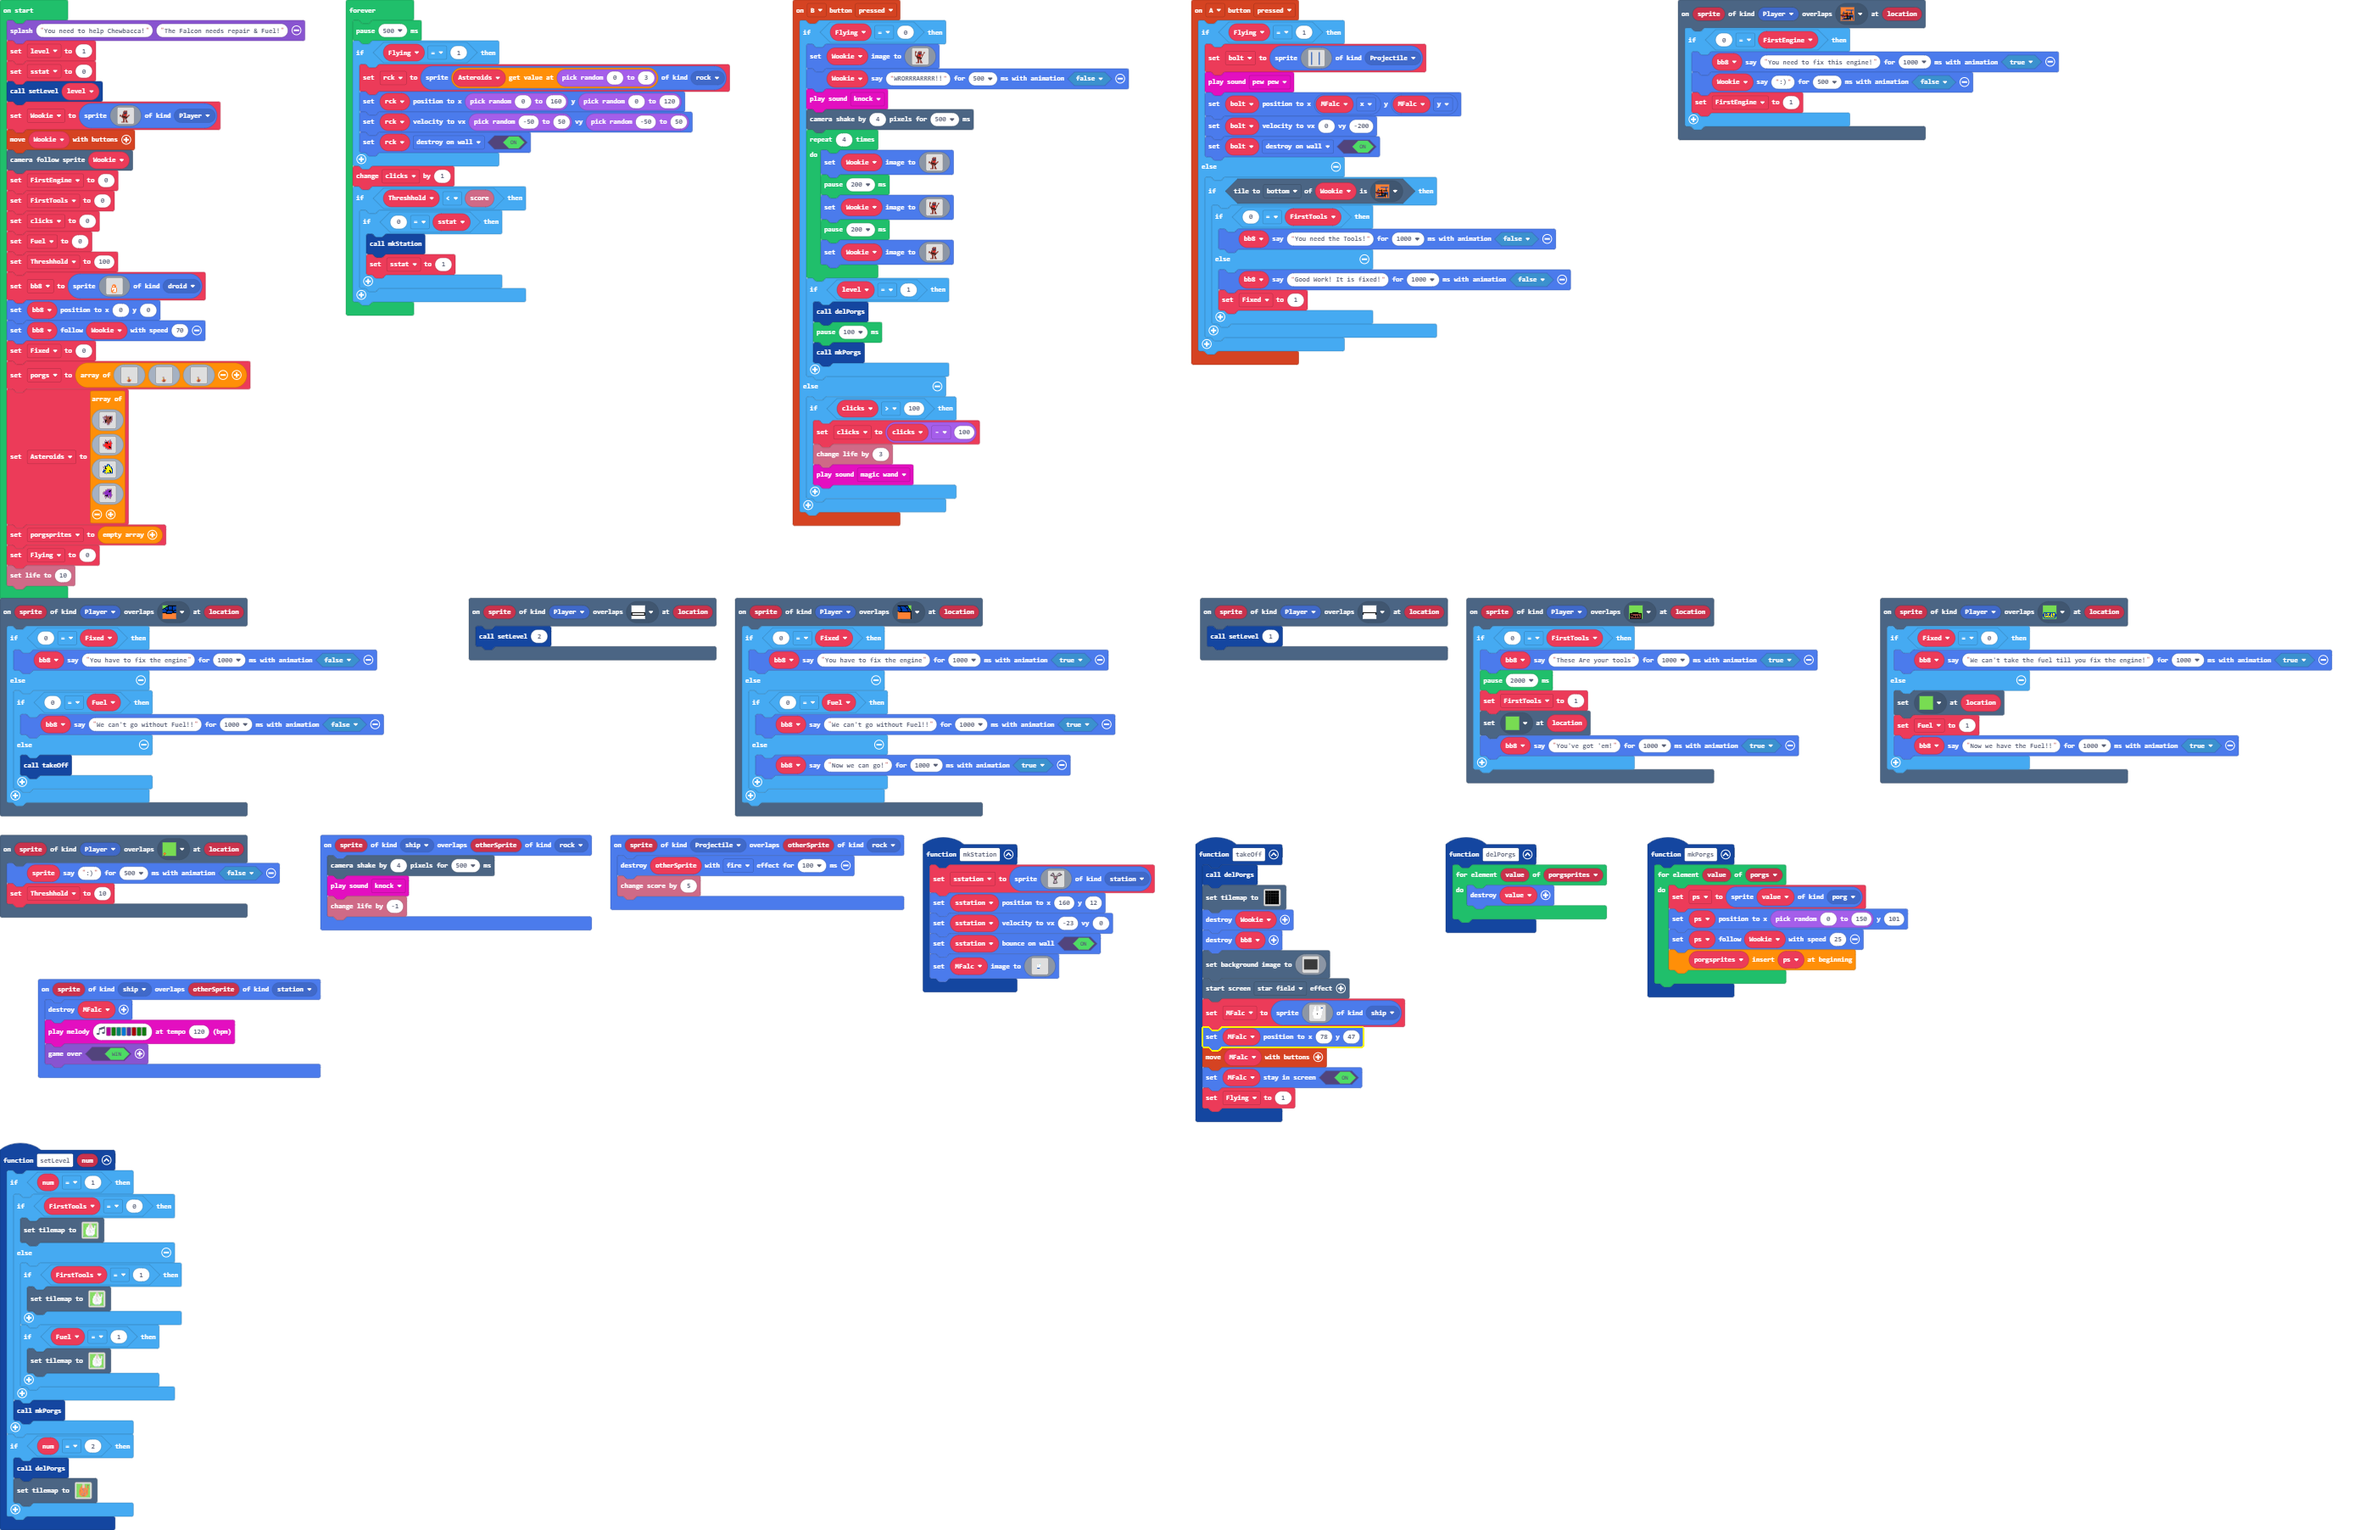
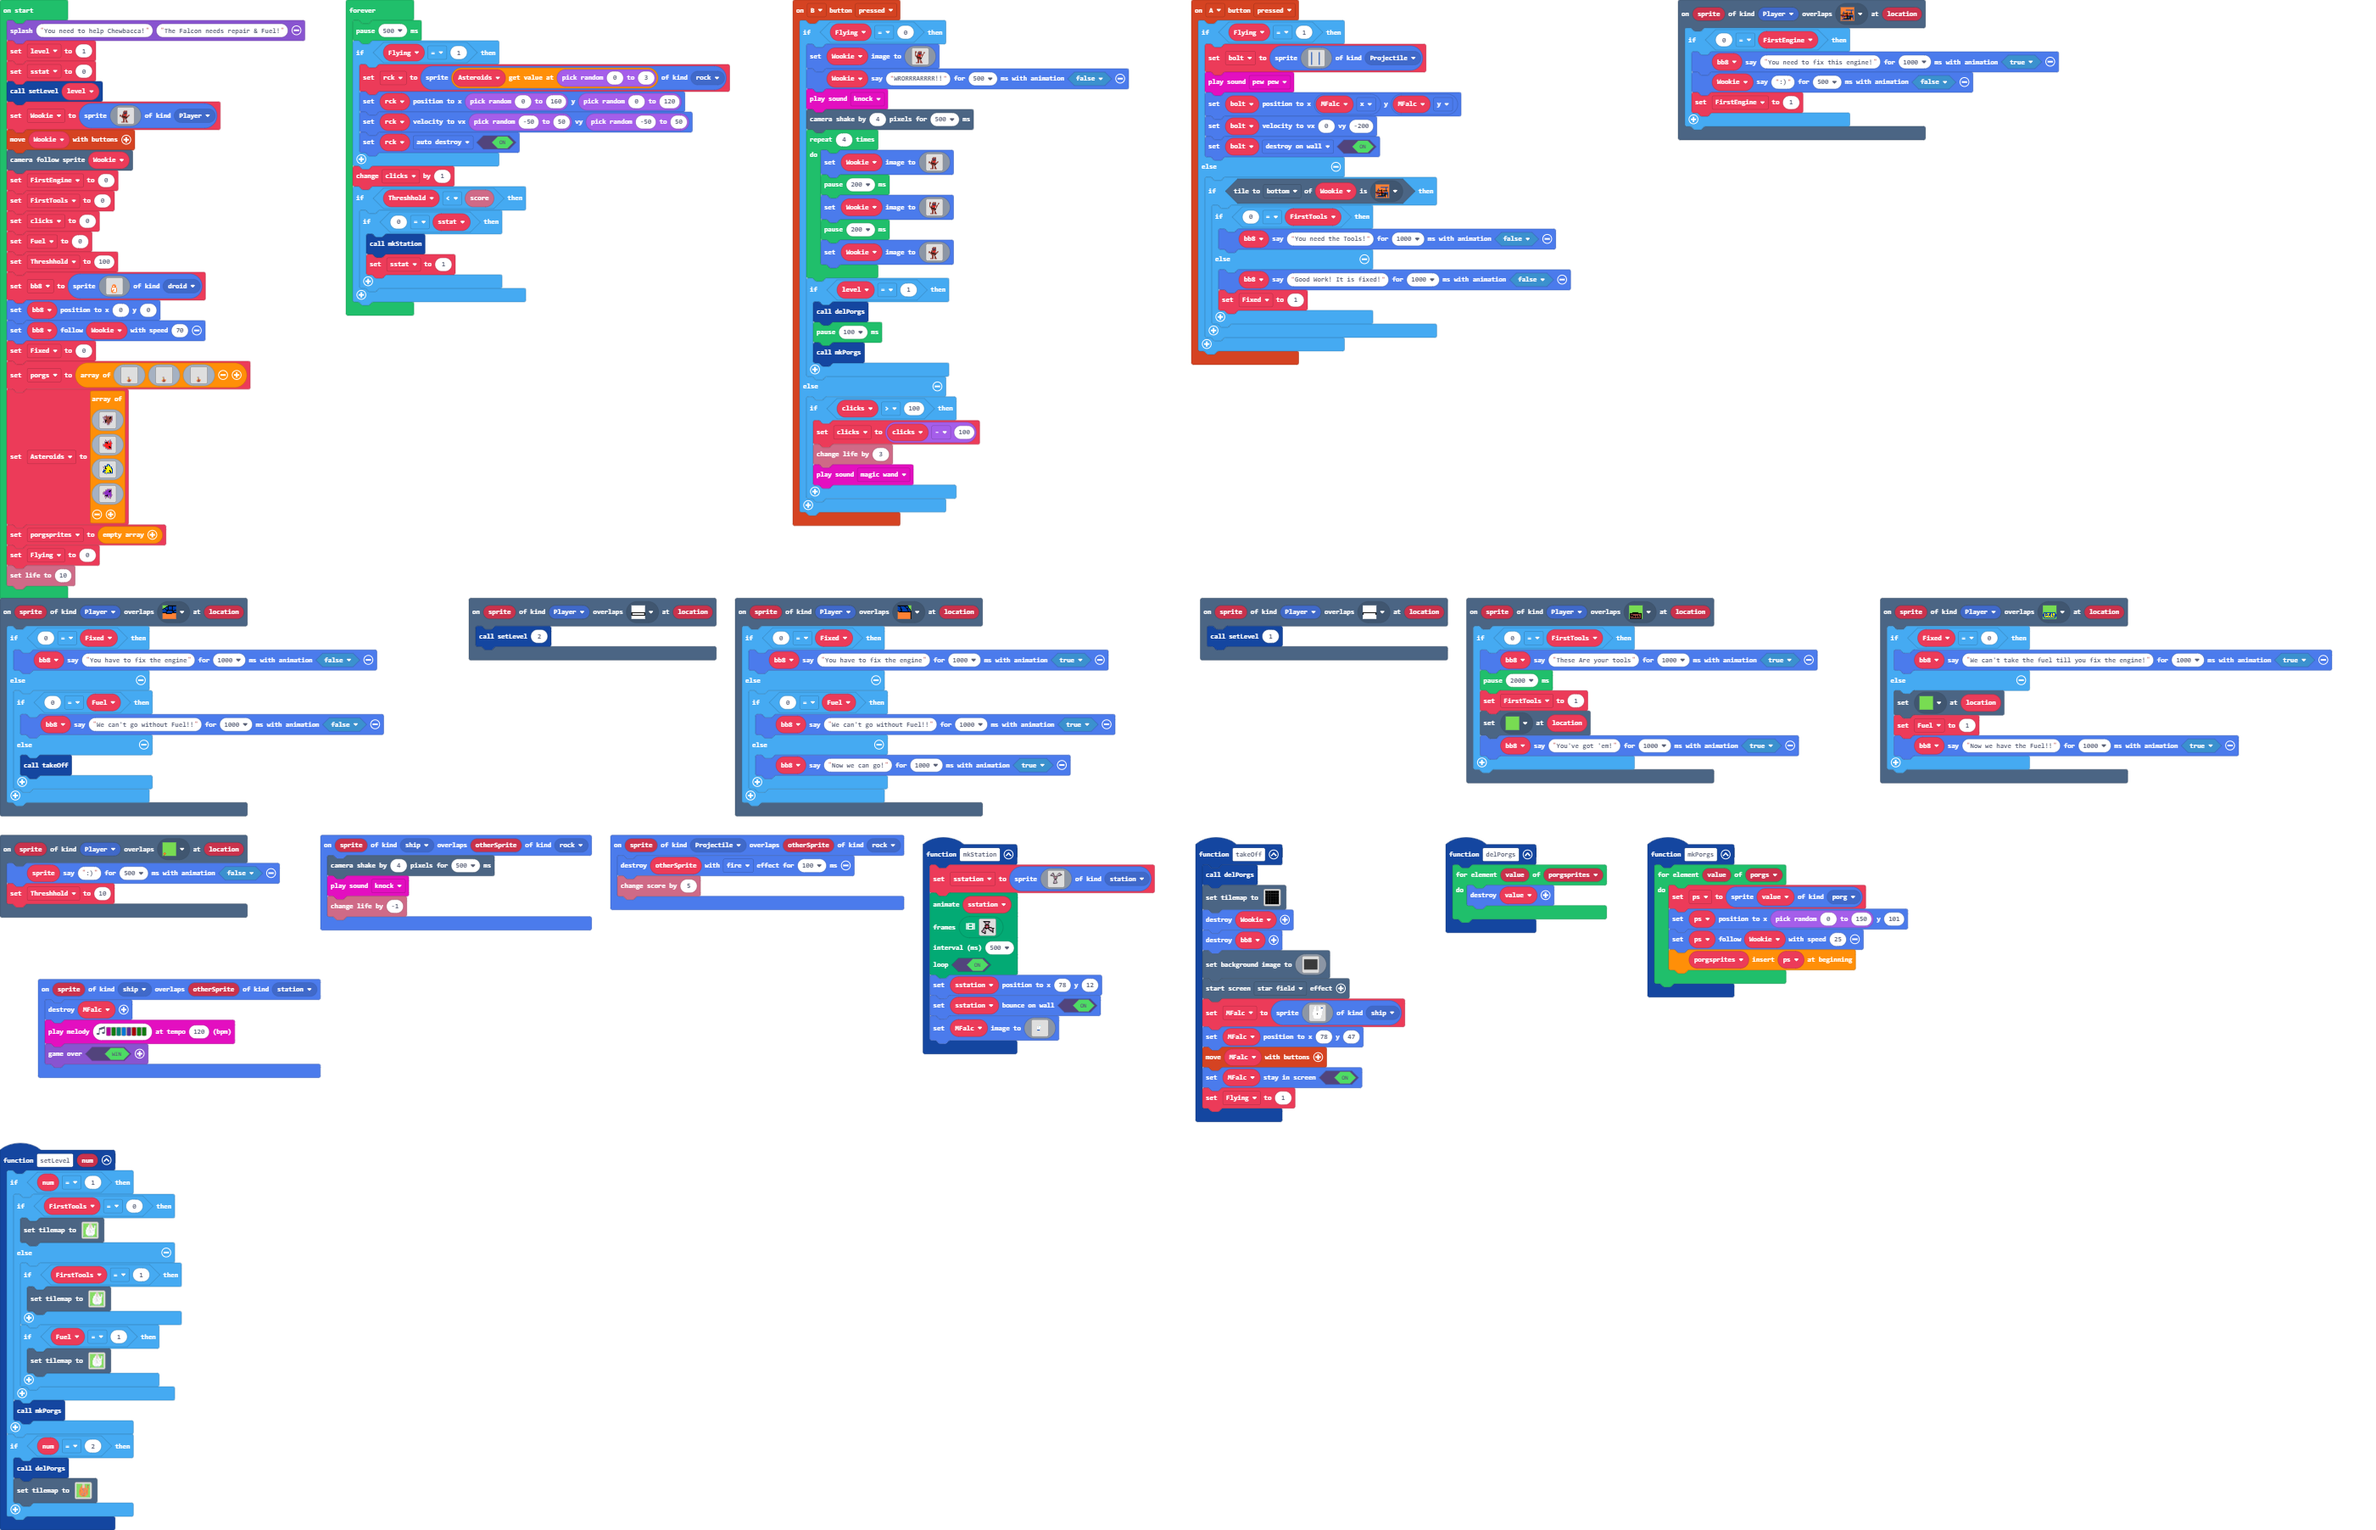
Update main.blocks, main.ts, images.g.jres, images.g.ts

Changed region(s): [[0.3726, 0.5588, 0.4657, 0.714]]

diff --git a/images.g.ts b/images.g.ts
@@ -245,13 +245,150 @@ namespace myImages {
 . . . . . . . . . . . . . . . . 
 . . . . . . . . . . . . . . . . 
 `;
+            case "image13":
+            case "SpaceStation0":return img`
+..............................
+..............................
+..............................
+..............................
+.........ffff.................
+.........fbbbffff.............
+.........fbb1bbbbf............
+.........fbbb1bbf.............
+..........fbb1bbf.............
+..........fbb1bf..............
+..........fbb1bf..............
+...........fbbbf..............
+...........fbbf...............
+............fbf...............
+...........fffff..............
+..........f2bbb2f.............
+..........fbbbbbf.............
+..........fbb2bbf.............
+..........fbbbbbf.............
+..........f2bbb2f.............
+........ff1fffffbff...........
+....ffffb1bf...f1bbfff........
+..ffbbbb1bf.....f11bbbfff.....
+...fbbb1bbf......fb11bbbbfff..
+....fb1bbf........fbb11bbbf...
+.....fbbbf.........fbbb1bf....
+......fbbf..........fbbbf.....
+.......ff............fbf......
+........f.............f.......
+..............................
+`;
+            case "image14":
+            case "SpaceStation1":return img`
+..............................
+..............................
+..............................
+..............................
+..........f...................
+........fff...................
+......ffbbf...................
+....ffbbbbf...................
+...fbbb1bbf...................
+..fbbbbb1bf...................
+...fbbbb1bbf...........f......
+....fbbbb1bf.........fff......
+.....ffbb1bf........fbbf......
+.......fbbbf......ffbbbf......
+........fbbfffff.fbbbb1bf.....
+.........ff2bbb2fbbb11bbf.....
+..........fbbbbbfbb1bbbbf.....
+..........fbb2bbffffbbbbf.....
+..........fbbbbbf...ffff.f....
+..........f2bbb2f.......ff....
+........ff1fffffb.............
+......ffbbbf...f..............
+....ffbbb1bf..................
+...fbbb11bbf..................
+....fb1bbbf...................
+.....fbbbbf...................
+......fbbf....................
+......fbf.....................
+.......ff.....................
+.......f......................
+`;
         }
         return null;
     })
 
     helpers._registerFactory("animation", function(name: string) {
         switch(helpers.stringTrim(name)) {
-
+            case "myAnim":
+            case "anim1":return [img`
+. . . . . . . . . . . . . . . . 
+. . . . . . . . . . . . . . . . 
+. . . . . . . . . . . . . . . . 
+. . . . . . . . . . . . . . . . 
+. . . . . . . . . . . . . . . . 
+. . . . . . . . . . . . . . . . 
+. . . . . . . . . . . . . . . . 
+. . . . . . . . . . . . . . . . 
+. . . . . . . . . . . . . . . . 
+. . . . . . . . . . . . . . . . 
+. . . . . . . . . . . . . . . . 
+. . . . . . . . . . . . . . . . 
+. . . . . . . . . . . . . . . . 
+. . . . . . . . . . . . . . . . 
+. . . . . . . . . . . . . . . . 
+. . . . . . . . . . . . . . . . 
+`];
+            case "AStation":
+            case "anim2":return [img`
+. . . . . . . . . . . . . . . . 
+. . . f f f f f f f f . . . . . 
+. . . . f b b d b b f . . . . . 
+. . . . . f b d b f . . . . . . 
+. . . . . . f d f . . . . . . . 
+. . . . . f f f f f . . . . . . 
+. . . . . f 2 b 2 f . . . . . . 
+. . . . . f b b b f . . . . . . 
+. . . . f f 2 b 2 f f f f . . . 
+. . . f b f f f f f d d b f f f 
+. . . f b d f . . f b b d d f . 
+. . f b b d . . . . f b b b f . 
+. f b b d f . . . . . f f b f . 
+. f b d b f . . . . . . . f f . 
+. . f f b f . . . . . . . . f . 
+. . . . f f . . . . . . . . . . 
+`, img`
+. . . . f f . . . . . . . . . . 
+. . f f b f . . . . . . . . f . 
+. f b d b f . . . . . . . f f . 
+. f b b d f . . . . . f f b f . 
+. . f b b d . . . . f b b b f . 
+. . . f b d f . . f b b d d f . 
+. . . f b f f f f f d d b f f f 
+. . . . f f 2 b 2 f f f f . . . 
+. . . . . f b b b f . . . . . . 
+. . . . . f 2 b 2 f . . . . . . 
+. . . . . f f f f f . . . . . . 
+. . . . . . f d f . . . . . . . 
+. . . . . f b d b f . . . . . . 
+. . . . f b b d b b f . . . . . 
+. . . f f f f f f f f . . . . . 
+. . . . . . . . . . . . . . . . 
+`, img`
+. . . . . f f . . . . . . . . . 
+. . . . f b f . . . . . . . . . 
+. . . f b b f . . . . . . . . . 
+. . f b 1 b f . . . . . . . f . 
+. f f b b 1 f . . . . . f f f . 
+. . . f f 1 f . . . . f b b f . 
+. . . . . f f f f f f b b b f . 
+. . . . . f 2 b 2 f b b 1 1 f . 
+. . . . . f b b b f 1 1 b b f . 
+f f f . . f 2 b 2 f f b b b f . 
+f b b f f f f f f f . f f b f . 
+f b b b 1 b f . . . . . . f f . 
+. f 1 1 b b f . . . . . . . . . 
+. . f b b f . . . . . . . . . . 
+. . f b b f . . . . . . . . . . 
+. . . f f . . . . . . . . . . . 
+`];
         }
         return null;
     })

diff --git a/main.ts b/main.ts
@@ -40,8 +40,13 @@ function delPorgs () {
 }
 function mkStation () {
     sstation = sprites.create(assets.image`SpaceStation`, SpriteKind.station)
-    sstation.setPosition(160, 12)
-    sstation.setVelocity(-23, 0)
+    animation.runImageAnimation(
+    sstation,
+    assets.animation`AStation`,
+    500,
+    true
+    )
+    sstation.setPosition(78, 12)
     sstation.setBounceOnWall(true)
     MFalc.setImage(assets.image`SmallFalc`)
 }
@@ -342,7 +347,7 @@ forever(function () {
         rck = sprites.create(Asteroids[randint(0, 3)], SpriteKind.rock)
         rck.setPosition(randint(0, 160), randint(0, 120))
         rck.setVelocity(randint(-50, 50), randint(-50, 50))
-        rck.setFlag(SpriteFlag.DestroyOnWall, true)
+        rck.setFlag(SpriteFlag.AutoDestroy, true)
     }
     clicks += 1
     if (Threshhold < info.score()) {
